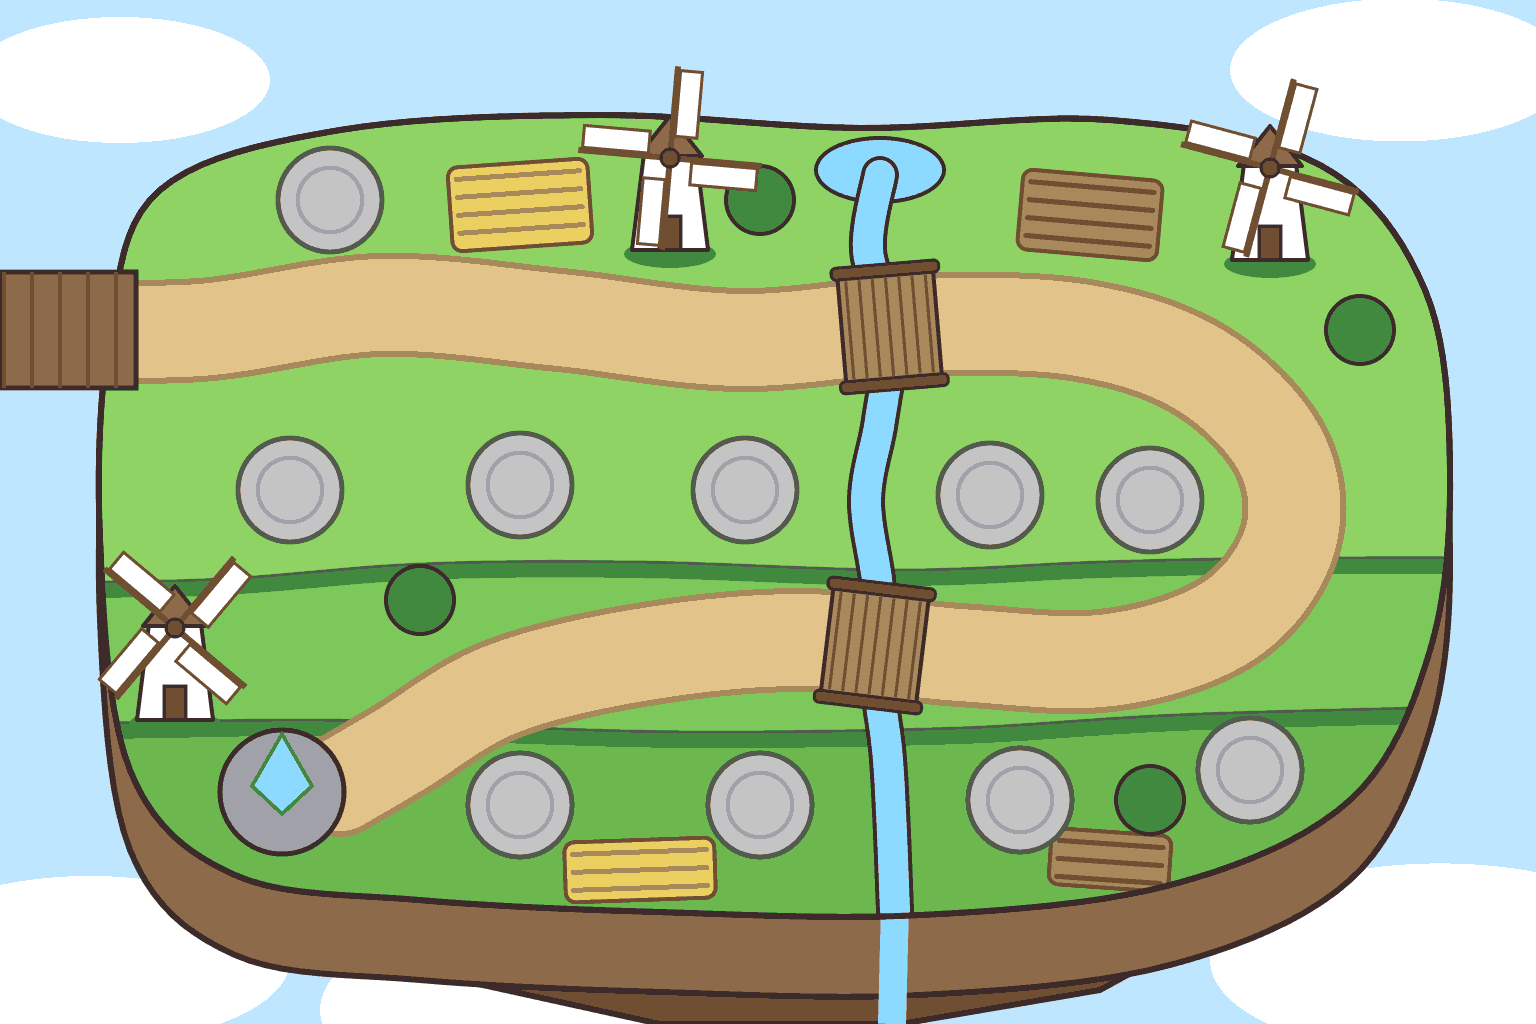
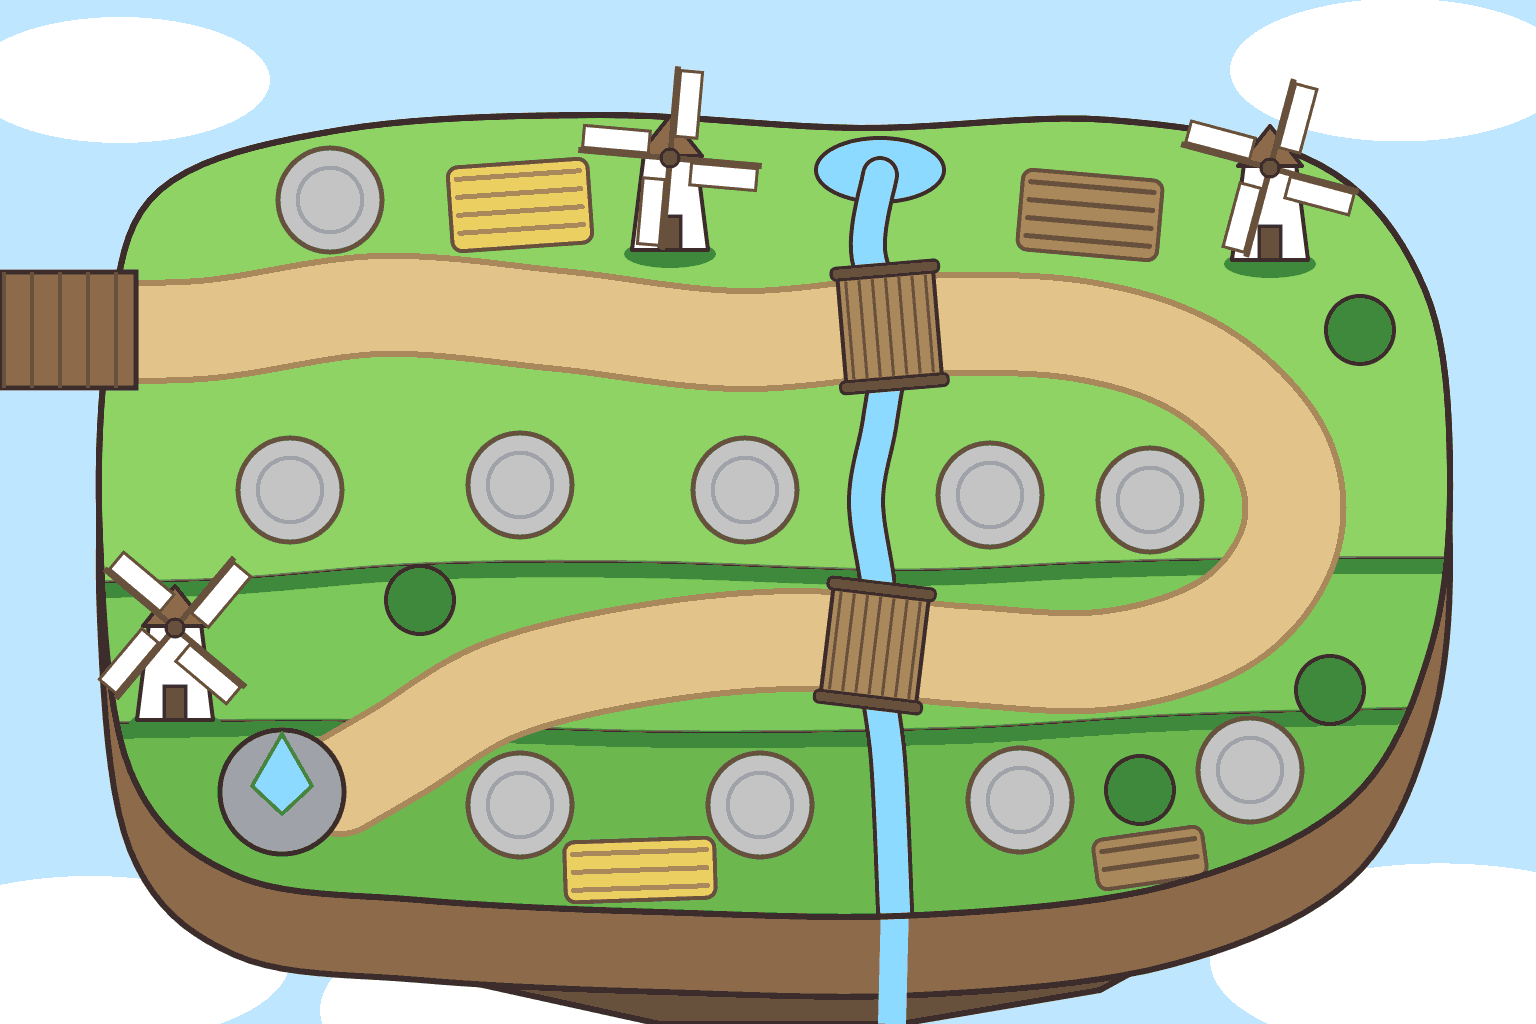
Chapter 1 levels 2 and 3, and difficulty tuned with the balance bot
- Level 2 'Windmill Terraces': a long road with a U-bend (spots between the stretches cover both), two
  bridges, parrots from wave 3 and ironclads from wave 4, 8 waves.
- Level 3 'Lighthouse Point': hairpins up the cliff to the vault at the lighthouse, 10 waves, faster waves
  from 5 on, and the First Mate with the whole crew at the end.
- Easy/Normal/Hard multipliers retuned (HP 0.8/1/1.2, gold 1.2/1/0.95, group size 0.85/1/1.1): a mixed,
  upgraded defence wins every level on Hard, usually with 2 stars; half the spots upgraded once wins on Easy.
- Level 1 is now called 'The First Raid' (the chapter keeps 'Pirates on the Horizon'); its gameplay is unchanged.
- The map sketch draws each level's own landmarks; the balance bot takes a level and a difficulty.

Claude-Session: https://claude.ai/code/session_01HxYbKiZmRW1H74WF928BjH

Changed region(s): [[0.6562, 0.7188, 0.8125, 0.875], [0.8438, 0.625, 0.9062, 0.7188], [0.4688, 0.1562, 0.5312, 0.25]]

diff --git a/src/td/levels.ts b/src/td/levels.ts
@@ -33,7 +33,7 @@ export interface LevelDef {
 
 export const LEVEL1: LevelDef = {
   id: 'level1',
-  name: 'Pirates on the Horizon',
+  name: 'The First Raid',
   blurb: 'The first raid on Sky Haven. Guard the crystal vault!',
   // Painted by Codex over the sketch; the road and spots below were measured on the painting.
   map: { w: 1536, h: 1024, art: 'maps/level1.webp', sketch: 'maps/level1-sketch.png' },
@@ -82,6 +82,9 @@ export const LEVEL2: LevelDef = {
   id: 'level2',
   name: 'Windmill Terraces',
   blurb: "Raiders on Sky Haven's farm island. Hold the bend!",
+  // Laid out on the sketch (no painting yet). The dock is on the west edge; the road runs east along the top
+  // terrace, swings round a U-bend and comes back west a terrace lower, then drops to the vault. The spots between
+  // the two stretches (and the one inside the bend) reach both; a stream crosses the road under two bridges.
   map: { w: 1536, h: 1024, sketch: 'maps/level2-sketch.png' },
   route: [
     [36, 330], [200, 330], [380, 305], [560, 320], [740, 340], [920, 325], [1080, 330], [1200, 370], [1280, 450],
@@ -102,39 +105,47 @@ export const LEVEL2: LevelDef = {
   startGold: 260,
   crystals: 20,
   ordersAfter: [2, 4, 6],
+  // Flyers already in wave 3 and armour in wave 4, powder-monkey swarms all along; the last waves are big, so
+  // a few towers left at level 2 no longer hold them.
   waves: [
-    { groups: [{ enemy: 'deckhand', count: 8, gap: 1.4 }, { enemy: 'powderMonkey', count: 4, gap: 0.8, delay: 8 }] },
-    { groups: [{ enemy: 'powderMonkey', count: 10, gap: 0.6 }, { enemy: 'deckhand', count: 6, gap: 1.2, delay: 5 }] },
-    { groups: [{ enemy: 'parrot', count: 6, gap: 1.2 }, { enemy: 'deckhand', count: 8, gap: 1.1, delay: 3 }] },
-    { groups: [{ enemy: 'ironclad', count: 3, gap: 3 }, { enemy: 'powderMonkey', count: 12, gap: 0.5, delay: 4 }] },
+    { groups: [{ enemy: 'deckhand', count: 8, gap: 1.4 }, { enemy: 'powderMonkey', count: 5, gap: 0.8, delay: 8 }] },
+    { groups: [{ enemy: 'powderMonkey', count: 12, gap: 0.55 }, { enemy: 'deckhand', count: 6, gap: 1.2, delay: 5 }] },
+    { groups: [{ enemy: 'parrot', count: 6, gap: 1.2 }, { enemy: 'deckhand', count: 10, gap: 1, delay: 3 }] },
     {
       groups: [
-        { enemy: 'deckhand', count: 16, gap: 0.9 },
+        { enemy: 'ironclad', count: 3, gap: 3 },
+        { enemy: 'powderMonkey', count: 14, gap: 0.5, delay: 4 },
+        { enemy: 'deckhand', count: 6, gap: 1, delay: 8 },
+      ],
+    },
+    {
+      groups: [
+        { enemy: 'deckhand', count: 18, gap: 0.85 },
         { enemy: 'parrot', count: 8, gap: 1, delay: 6 },
-        { enemy: 'powderMonkey', count: 10, gap: 0.5, delay: 10 },
+        { enemy: 'powderMonkey', count: 12, gap: 0.45, delay: 10 },
       ],
     },
     {
       groups: [
         { enemy: 'ironclad', count: 6, gap: 2.5 },
-        { enemy: 'powderMonkey', count: 16, gap: 0.5, delay: 3 },
-        { enemy: 'parrot', count: 8, gap: 1, delay: 10 },
+        { enemy: 'powderMonkey', count: 18, gap: 0.45, delay: 3 },
+        { enemy: 'parrot', count: 10, gap: 0.9, delay: 10 },
       ],
     },
     {
       groups: [
-        { enemy: 'deckhand', count: 20, gap: 0.8 },
-        { enemy: 'ironclad', count: 6, gap: 2.5, delay: 6 },
-        { enemy: 'powderMonkey', count: 16, gap: 0.5, delay: 10 },
-        { enemy: 'parrot', count: 10, gap: 1, delay: 14 },
-      ],
-    },
-    {
-      groups: [
-        { enemy: 'powderMonkey', count: 20, gap: 0.45 },
-        { enemy: 'deckhand', count: 18, gap: 0.8, delay: 4 },
-        { enemy: 'ironclad', count: 8, gap: 2.2, delay: 9 },
+        { enemy: 'deckhand', count: 22, gap: 0.75 },
+        { enemy: 'ironclad', count: 8, gap: 2.2, delay: 6 },
+        { enemy: 'powderMonkey', count: 18, gap: 0.45, delay: 10 },
         { enemy: 'parrot', count: 12, gap: 0.9, delay: 14 },
+      ],
+    },
+    {
+      groups: [
+        { enemy: 'powderMonkey', count: 24, gap: 0.4 },
+        { enemy: 'deckhand', count: 22, gap: 0.7, delay: 4 },
+        { enemy: 'ironclad', count: 12, gap: 1.9, delay: 9 },
+        { enemy: 'parrot', count: 16, gap: 0.8, delay: 14 },
       ],
     },
   ],
@@ -144,6 +155,8 @@ export const LEVEL3: LevelDef = {
   id: 'level3',
   name: 'Lighthouse Point',
   blurb: "The First Mate's big assault on the old lighthouse.",
+  // Laid out on the sketch (no painting yet). The pirates land on the south-east side; the road climbs in two
+  // hairpins to the top of the cliffs, then runs down west to the vault at the foot of the lighthouse on the point.
   map: { w: 1536, h: 1024, sketch: 'maps/level3-sketch.png' },
   route: [
     [1500, 800], [1320, 805], [1150, 790], [1000, 740], [910, 650], [930, 545], [1050, 500], [1200, 470], [1290, 390],
@@ -161,42 +174,49 @@ export const LEVEL3: LevelDef = {
     [55, 500], [80, 420], [180, 380], [320, 375], [430, 260], [600, 165], [860, 130], [1100, 140], [1320, 190], [1425, 330],
     [1445, 560], [1430, 730], [1385, 880], [1150, 910], [880, 905], [620, 885], [440, 810], [300, 720], [170, 660], [80, 600],
   ],
-  startGold: 330,
+  startGold: 340,
   crystals: 20,
   ordersAfter: [2, 4, 6, 8],
+  // A gentle start, then every kind together; from wave 5 the waves come faster (12 s rests instead of 14), and
+  // the First Mate leads the whole crew in the last one.
   waves: [
     { groups: [{ enemy: 'deckhand', count: 10, gap: 1.3 }] },
     { groups: [{ enemy: 'powderMonkey', count: 10, gap: 0.7 }, { enemy: 'parrot', count: 3, gap: 1.2, delay: 6 }] },
     { groups: [{ enemy: 'ironclad', count: 2, gap: 3 }, { enemy: 'deckhand', count: 10, gap: 1.1, delay: 2 }] },
-    { groups: [{ enemy: 'parrot', count: 8, gap: 1 }, { enemy: 'powderMonkey', count: 10, gap: 0.6, delay: 5 }] },
+    { groups: [{ enemy: 'parrot', count: 8, gap: 1 }, { enemy: 'powderMonkey', count: 12, gap: 0.5, delay: 5 }] },
     {
       groups: [
         { enemy: 'ironclad', count: 4, gap: 2.5 },
         { enemy: 'deckhand', count: 12, gap: 0.9, delay: 3 },
-        { enemy: 'powderMonkey', count: 8, gap: 0.5, delay: 10 },
+        { enemy: 'powderMonkey', count: 10, gap: 0.4, delay: 10 },
       ],
+      rest: 12,
     },
     {
       groups: [
         { enemy: 'parrot', count: 10, gap: 1 },
         { enemy: 'ironclad', count: 5, gap: 2.5, delay: 5 },
-        { enemy: 'powderMonkey', count: 14, gap: 0.5, delay: 9 },
+        { enemy: 'powderMonkey', count: 18, gap: 0.4, delay: 9 },
       ],
+      rest: 12,
     },
     {
       groups: [
         { enemy: 'deckhand', count: 20, gap: 0.8 },
         { enemy: 'ironclad', count: 6, gap: 2.2, delay: 6 },
         { enemy: 'parrot', count: 8, gap: 1, delay: 12 },
+        { enemy: 'powderMonkey', count: 12, gap: 0.4, delay: 16 },
       ],
+      rest: 12,
     },
     {
       groups: [
         { enemy: 'parrot', count: 12, gap: 0.9 },
-        { enemy: 'powderMonkey', count: 20, gap: 0.45, delay: 5 },
+        { enemy: 'powderMonkey', count: 24, gap: 0.4, delay: 5 },
         { enemy: 'ironclad', count: 7, gap: 2.4, delay: 10 },
         { enemy: 'deckhand', count: 12, gap: 0.8, delay: 14 },
       ],
+      rest: 12,
     },
     {
       groups: [
@@ -205,6 +225,7 @@ export const LEVEL3: LevelDef = {
         { enemy: 'parrot', count: 14, gap: 0.9, delay: 10 },
         { enemy: 'powderMonkey', count: 24, gap: 0.4, delay: 16 },
       ],
+      rest: 12,
     },
     {
       groups: [

diff --git a/tests/unit/levels.test.ts b/tests/unit/levels.test.ts
@@ -1,0 +1,119 @@
+import { existsSync } from 'node:fs';
+import { describe, expect, it } from 'vitest';
+import { Battle } from '../../src/td/battle';
+import { DIFFICULTIES, DIFFICULTY, scaleWaves, type Difficulty } from '../../src/td/difficulty';
+import { CHAPTER1, checkLevel, LEVEL1, LEVELS, type LevelDef } from '../../src/td/levels';
+import { ENEMIES, type TowerKind } from '../../src/td/units';
+import type { WaveDef } from '../../src/td/waves';
+
+const dist = (a: [number, number], b: [number, number]) => Math.hypot(a[0] - b[0], a[1] - b[1]);
+const isBoss = (k: WaveDef['groups'][number]['enemy']) => !!ENEMIES[k].boss;
+const pirates = (waves: WaveDef[]) => waves.reduce((n, w) => n + w.groups.reduce((m, g) => m + g.count, 0), 0);
+
+describe('chapter 1 levels', () => {
+  it('has the three levels in order, each with its own id', () => {
+    expect(CHAPTER1.map((l) => l.id)).toEqual(['level1', 'level2', 'level3']);
+    expect(Object.keys(LEVELS)).toEqual(['level1', 'level2', 'level3']);
+    for (const l of CHAPTER1) expect(l.name.length).toBeGreaterThan(0);
+  });
+
+  it.each(CHAPTER1.map((l) => [l.id, l] as const))('%s is laid out cleanly', (_, level) => {
+    expect(checkLevel(level)).toEqual([]);
+    // The road runs from the dock to the vault, and the hero starts near the vault.
+    expect(dist(level.route[0], level.dock)).toBeLessThan(90);
+    expect(dist(level.route[level.route.length - 1], level.vault)).toBeLessThan(90);
+    expect(dist(level.heroStart, level.vault)).toBeLessThan(250);
+    // Its sketch is there for the game to show until the painted map arrives.
+    expect(existsSync(new URL(`../../public/${level.map.sketch}`, import.meta.url))).toBe(true);
+  });
+
+  it.each(CHAPTER1.map((l) => [l.id, l] as const))('%s has real waves and orders between them', (_, level) => {
+    expect(level.waves.length).toBeGreaterThan(0);
+    for (const w of level.waves) {
+      expect(w.groups.length).toBeGreaterThan(0);
+      for (const g of w.groups) expect(g.count).toBeGreaterThan(0);
+    }
+    for (const n of level.ordersAfter ?? []) {
+      expect(Number.isInteger(n)).toBe(true);
+      expect(n).toBeGreaterThanOrEqual(1);
+      expect(n).toBeLessThan(level.waves.length);
+    }
+  });
+
+  it('the chapter ends with the First Mate', () => {
+    const last = CHAPTER1[CHAPTER1.length - 1];
+    expect(last.waves[last.waves.length - 1].groups.some((g) => g.enemy === 'firstMate')).toBe(true);
+  });
+});
+
+describe('difficulty', () => {
+  it('scaling waves never touches a boss and never empties a group', () => {
+    for (const count of [0.01, 0.5, 0.85, 1.1, 2]) {
+      for (const level of CHAPTER1) {
+        const scaled = scaleWaves(level.waves, count, isBoss);
+        scaled.forEach((w, i) =>
+          w.groups.forEach((g, j) => {
+            expect(g.count).toBeGreaterThanOrEqual(1);
+            if (isBoss(g.enemy)) expect(g.count).toBe(level.waves[i].groups[j].count);
+          }),
+        );
+      }
+    }
+    expect(pirates(scaleWaves(LEVEL1.waves, DIFFICULTY.hard.count, isBoss))).toBeGreaterThan(pirates(LEVEL1.waves));
+    expect(pirates(scaleWaves(LEVEL1.waves, DIFFICULTY.easy.count, isBoss))).toBeLessThan(pirates(LEVEL1.waves));
+  });
+
+  it('Hard pirates arrive with more hit points, Easy ones with fewer', () => {
+    const level: LevelDef = { ...LEVEL1, heroStart: [-5000, -5000], waves: [{ groups: [{ enemy: 'deckhand', count: 1, gap: 1 }] }] };
+    const firstPirate = (difficulty: Difficulty) => {
+      const b = new Battle(level, 1, difficulty);
+      b.callWave();
+      b.step(0.1);
+      return b.enemies[0];
+    };
+    const [easy, normal, hard] = DIFFICULTIES.map(firstPirate);
+    expect(normal.maxHp).toBe(ENEMIES.deckhand.hp);
+    expect(hard.maxHp).toBeGreaterThan(normal.maxHp);
+    expect(easy.maxHp).toBeLessThan(normal.maxHp);
+    for (const e of [easy, normal, hard]) expect(e.hp).toBe(e.maxHp);
+  });
+
+  it('Easy starts with more gold, Hard with less', () => {
+    const gold = (d: Difficulty) => new Battle(LEVEL1, 1, d).purse.gold;
+    expect(gold('normal')).toBe(LEVEL1.startGold);
+    expect(gold('easy')).toBeGreaterThan(gold('normal'));
+    expect(gold('hard')).toBeLessThan(gold('normal'));
+  });
+});
+
+/**
+ * A sensible mixed defence per level (as in scripts/tools/balance_bot.mts): the spots in build order and the
+ * tower for each. The bot builds as soon as it can pay, then keeps upgrading its lowest tower to level 3.
+ */
+const MIXED: Record<string, [number, TowerKind][]> = {
+  level1: [[5, 'archer'], [3, 'cannon'], [1, 'archer'], [7, 'storm'], [4, 'frost'], [0, 'cannon'], [2, 'storm'], [6, 'archer']],
+  level2: [[4, 'archer'], [3, 'cannon'], [2, 'storm'], [1, 'cannon'], [5, 'frost'], [0, 'archer'], [6, 'storm'], [7, 'archer'], [8, 'storm'], [9, 'archer']],
+  level3: [[2, 'archer'], [0, 'cannon'], [3, 'storm'], [1, 'frost'], [4, 'cannon'], [6, 'storm'], [5, 'archer'], [8, 'archer'], [9, 'storm'], [7, 'archer']],
+};
+
+describe('balance', () => {
+  it.each(CHAPTER1.map((l) => [l.id, l] as const))('a mixed defence wins %s on Normal with three stars', (id, level) => {
+    const b = new Battle(level, 1, 'normal');
+    const plan = MIXED[id];
+    b.callWave();
+    let won: number | null = null;
+    for (let t = 0; t < 900 && !b.over; t += 1 / 30) {
+      if (b.choice) b.choose(0);
+      const next = plan.find(([s]) => !b.towers[s]);
+      if (next) b.build(next[0], next[1]);
+      else {
+        const low = plan.map(([s]) => b.towers[s]!).sort((x, y) => x.level - y.level)[0];
+        if (low.level < 3) b.upgrade(low.slot);
+      }
+      b.step(1 / 30);
+      for (const e of b.drain()) if (e.type === 'win') won = e.stars;
+    }
+    expect(b.state).toBe('won');
+    expect(won).toBe(3);
+  });
+});

diff --git a/scripts/art/map-sketch.ts b/scripts/art/map-sketch.ts
@@ -162,12 +162,12 @@ const DECOR: Record<string, Decor> = {
   ${field([520, 205], 140, 84, -4, '#ecd060', '#a8875a')}
   ${field([1090, 215], 140, 80, 5, '#a8875a', '#6d4a2e')}
   ${field([640, 870], 150, 60, -2, '#ecd060', '#a8875a')}
-  ${field([1110, 860], 120, 56, 4, '#a8875a', '#6d4a2e')}
+  ${field([1150, 858], 110, 50, -8, '#a8875a', '#6d4a2e')}
   <ellipse cx="880" cy="170" rx="64" ry="32" fill="${WATER}" stroke="${INK}" stroke-width="4"/>
 </g>`;
     },
     stream: [[880, 175], [868, 250], [890, 330], [880, 420], [866, 500], [878, 590], [875, 660], [888, 760], [895, 910]],
-    trees: [[170, 420], [1360, 330], [1370, 560], [1150, 800], [420, 600], [640, 590], [1330, 720], [760, 200], [1000, 590], [400, 230], [640, 760]],
+    trees: [[170, 420], [1360, 330], [1370, 560], [1140, 790], [420, 600], [640, 590], [1330, 690], [1000, 590], [400, 230], [640, 760]],
     props: () => `${windmill([1270, 260], 15)}${windmill([175, 720], 40)}${windmill([670, 250], 5)}`,
   },
   // A rocky headland: grey cliffs and outcrops, boulders, a few wind-bent trees, the old lighthouse on the western
@@ -188,17 +188,21 @@ const DECOR: Record<string, Decor> = {
     },
     grass: '#a3cf6e',
     ground: (s) => {
-      const island = closedCurve(s.level.island);
+      // A band of bare rock round the rim, and stony outcrops (centre, radii).
+      const outcrops: [Pt, number, number][] = [
+        [[640, 175], 110, 50], [[1200, 190], 130, 50], [[1400, 440], 50, 110], [[560, 840], 120, 50], [[1150, 880], 150, 46],
+        [[120, 600], 70, 40], [[700, 760], 70, 40], [[1240, 560], 46, 34],
+      ];
       return `<g clip-path="url(#isle)">
-  <polygon points="${pts(island)}" fill="none" stroke="#b9b4a6" stroke-width="44" stroke-linejoin="round"/>
-  ${[[[640, 175], 110, 50], [[1200, 190], 130, 50], [[1400, 440], 50, 110], [[560, 840], 120, 50], [[1150, 880], 150, 46], [[120, 600], 70, 40], [[700, 760], 70, 40], [[1240, 560], 46, 34]]
-    .map(([[x, y], rx, ry]) => `<ellipse cx="${x}" cy="${y}" rx="${rx}" ry="${ry}" fill="#b9b4a6" stroke="#8c8478" stroke-width="4"/>`).join('')}
+  <polygon points="${pts(closedCurve(s.level.island))}" fill="none" stroke="#b9b4a6" stroke-width="44" stroke-linejoin="round"/>
+  ${outcrops.map(([[x, y], rx, ry]) => `<ellipse cx="${x}" cy="${y}" rx="${rx}" ry="${ry}" fill="#b9b4a6" stroke="#8c8478" stroke-width="4"/>`).join('')}
 </g>`;
     },
     trees: [[470, 300], [800, 170], [1000, 860], [560, 700], [1010, 420], [300, 440], [1200, 560], [650, 560], [1340, 300], [570, 860]],
-    props: (s) =>
-      `${[[700, 175], [1250, 180], [1395, 400], [520, 830], [1180, 880], [140, 610], [690, 770], [1410, 650], [330, 650], [960, 140]].filter((p) => s.clear(p as Pt, 30)).map((p) => rock(p as Pt)).join('')}
-  ${lighthouse([135, 470])}`,
+    props: (s) => {
+      const boulders: Pt[] = [[700, 175], [1250, 180], [1395, 400], [520, 830], [1180, 880], [140, 610], [690, 770], [1410, 650], [330, 650], [960, 140]];
+      return `${boulders.filter((p) => s.clear(p, 30)).map((p) => rock(p)).join('')}${lighthouse([135, 470])}`;
+    },
   },
 };
 

diff --git a/src/td/difficulty.ts b/src/td/difficulty.ts
@@ -18,10 +18,17 @@ export interface DifficultyDef {
   count: number;
 }
 
+/**
+ * Tuned with scripts/tools/balance_bot.mts (a bot that never moves the hero or calls the companions):
+ * - Easy: half the spots with towers upgraded once still wins every level with all 3 stars.
+ * - Normal: a mixed defence that upgrades gets 3 stars; one tower kind alone struggles from level 2 on.
+ * - Hard: the same mixed defence still wins, usually losing a few crystals (2 stars is typical, 3 possible).
+ * Pirate hit points weigh the most: they make every pirate harder without paying more gold for it.
+ */
 export const DIFFICULTY: Record<Difficulty, DifficultyDef> = {
-  easy: { name: 'Easy', blurb: 'Fewer, softer pirates and more gold', hp: 0.75, gold: 1.25, count: 0.8 },
+  easy: { name: 'Easy', blurb: 'Fewer, softer pirates and more gold', hp: 0.8, gold: 1.2, count: 0.85 },
   normal: { name: 'Normal', blurb: 'The battle as designed', hp: 1, gold: 1, count: 1 },
-  hard: { name: 'Hard', blurb: 'Tougher pirates, and more of them', hp: 1.3, gold: 0.9, count: 1.2 },
+  hard: { name: 'Hard', blurb: 'Tougher pirates, and more of them', hp: 1.2, gold: 0.95, count: 1.1 },
 };
 
 /** The level's waves with each group's size scaled; a group never drops below one pirate. */

diff --git a/scripts/tools/README.md b/scripts/tools/README.md
@@ -12,7 +12,7 @@ Helpers used while bringing art into the game and tuning balance. They are run b
 | `playshot.mjs <prefix> "<query>" "<js>" <ms,ms>` | Opens `play.html`, runs some JS once it is ready (e.g. `__play.battle.callWave()`), then screenshots after each delay. |
 | `map_overlay.mts <map> <out.png>` | Draws the level's road, tower spots, dock, vault and island over a painted map. |
 | `map_measure.mts <raw rgb>` | Measures how far the painted road and stone spots sit from the level data. |
-| `balance_bot.mts [towers]` | Plays level 1 with several build plans over six seeds and prints the crystals left (`BRANCH=1` buys level 4, `PICK=n` picks that order card). |
+| `balance_bot.mts [level\|all] [easy\|normal\|hard\|all] [towers]` | Plays the hero/lazy/mixed/archers/cannons/storms plans on a level and difficulty over six seeds and prints the crystals left (`BRANCH=1` buys level 4, `PICK=n` picks that order card, `PLANS=a,b` runs only those plans). |
 | `check-artifact.mjs <page.html> <out.png>` | Loads a single-file build offline the way an artifact wraps it, and reports errors. |
 | `gen_prompts.py` | Builds the all-in-one Codex prompts of section 10 in `docs/art/CHARACTER_BRIEF.md`. |
 
